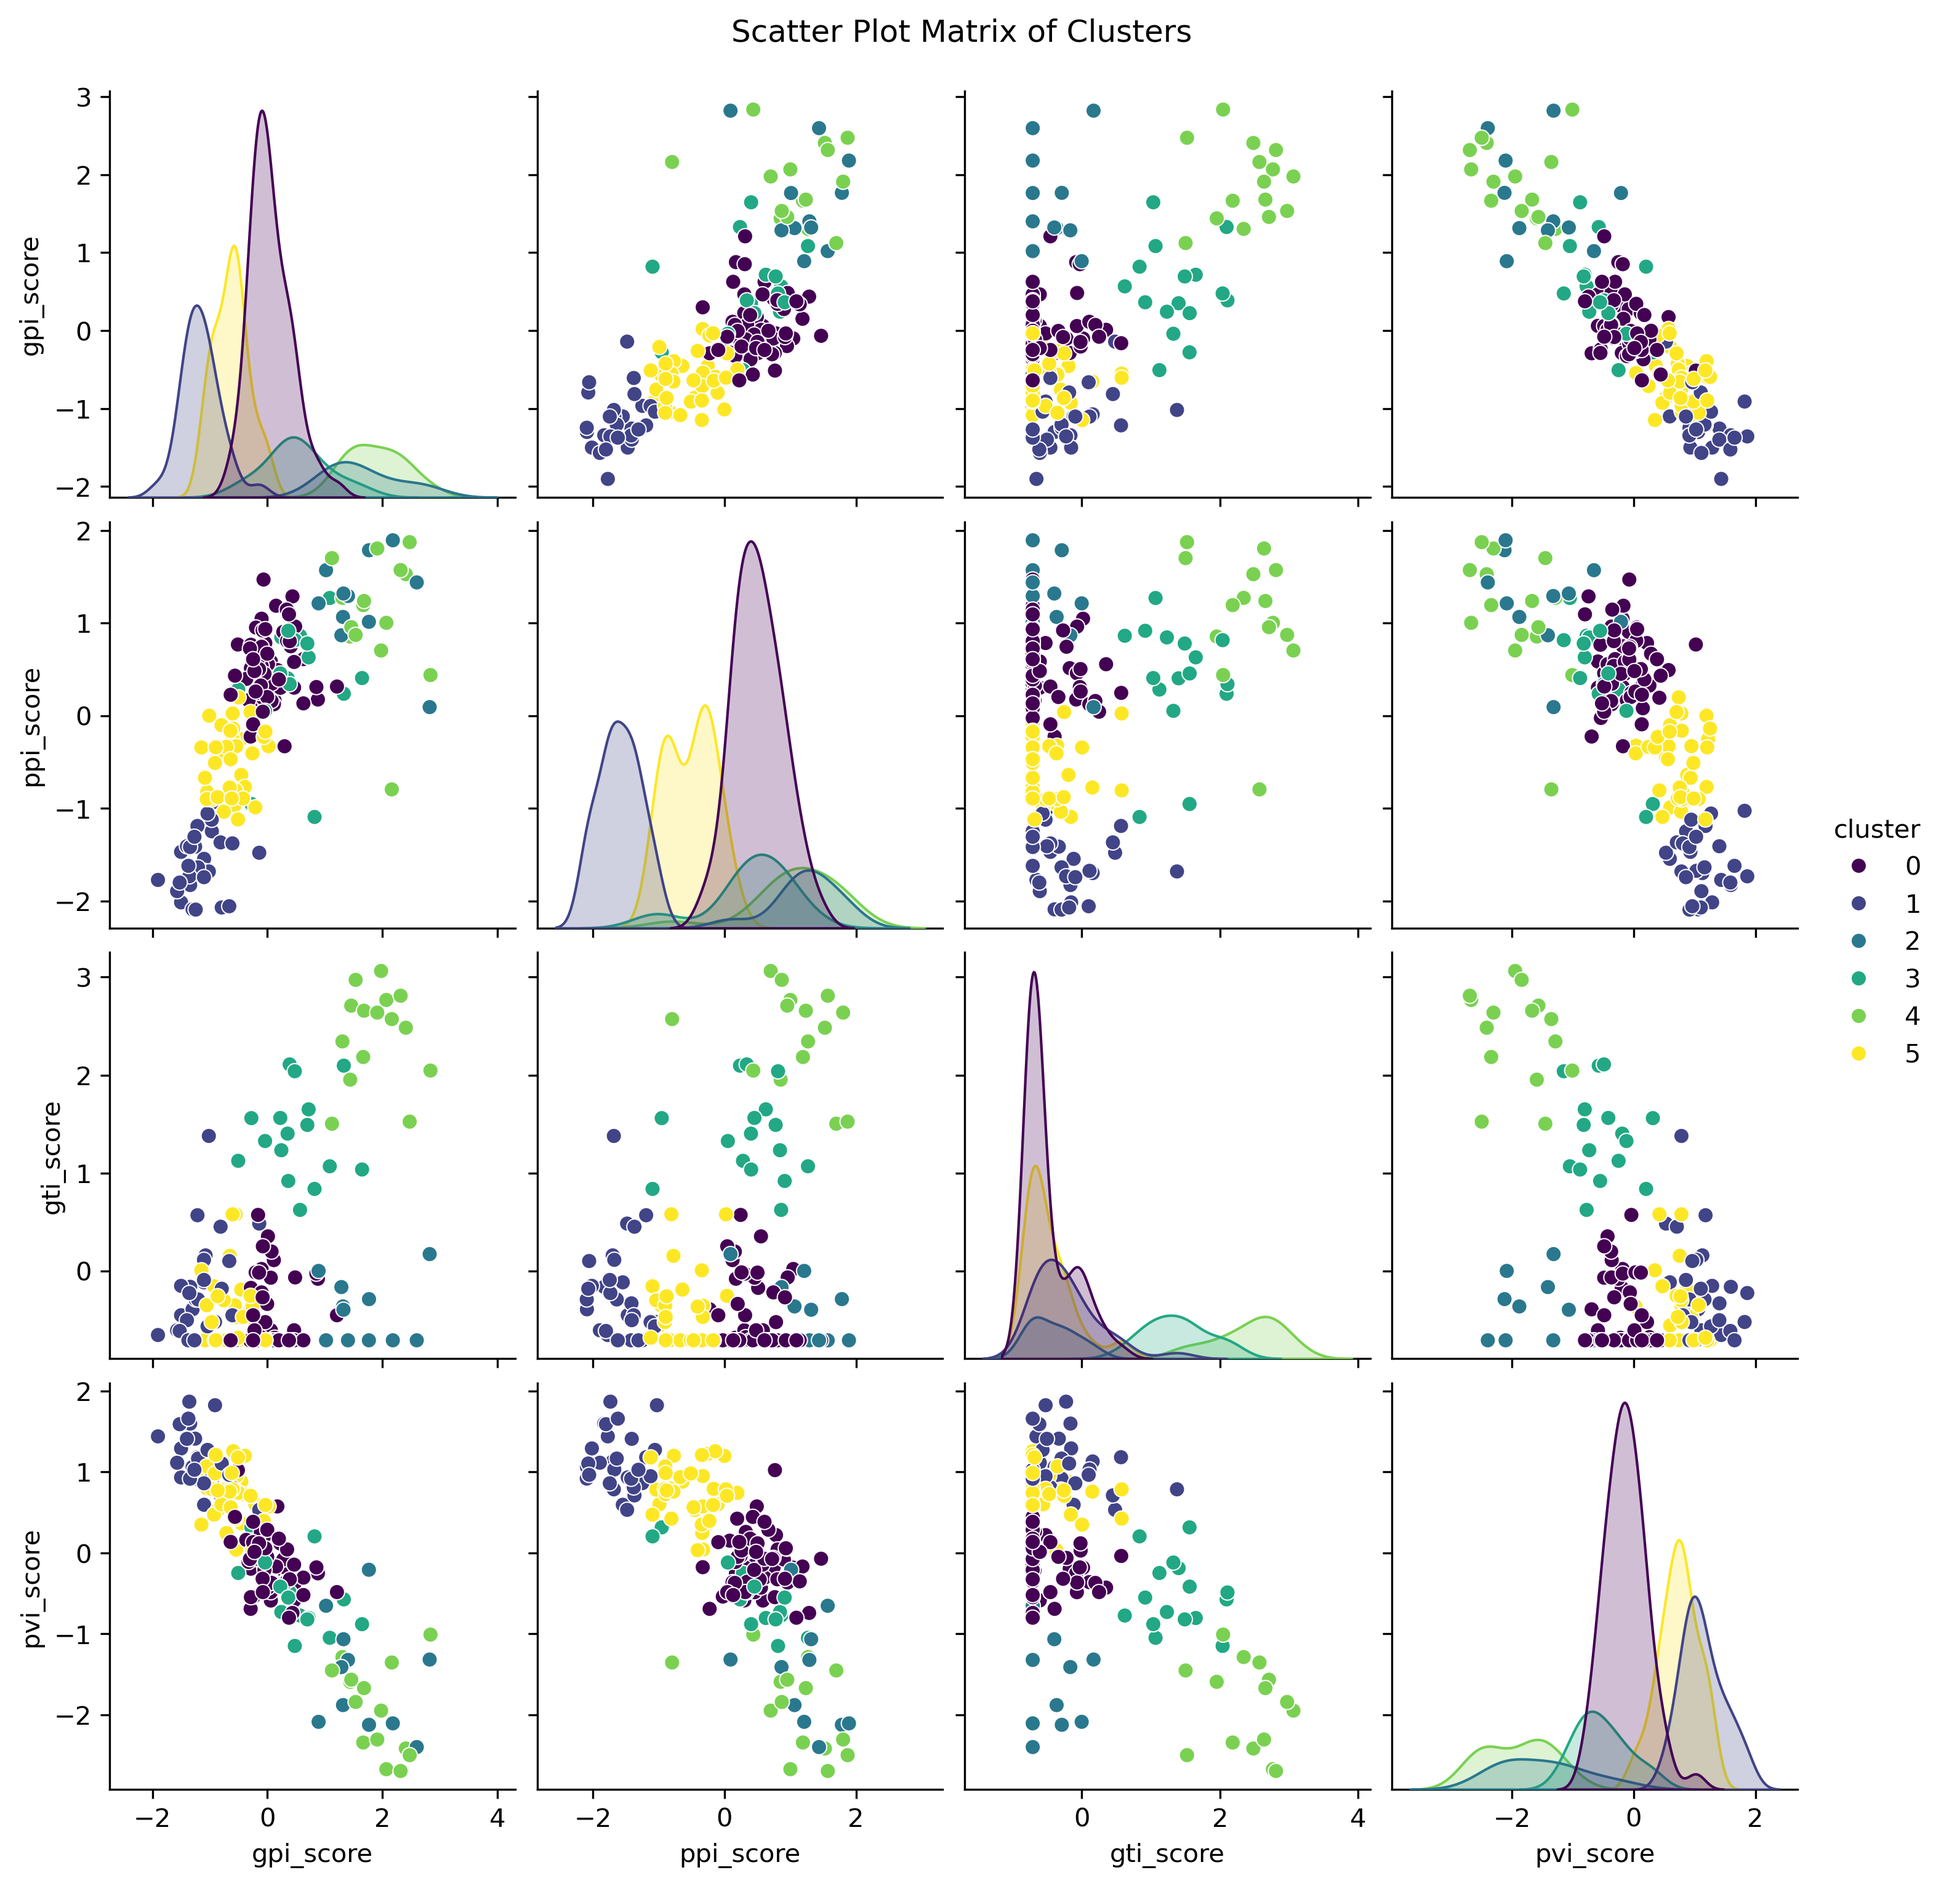
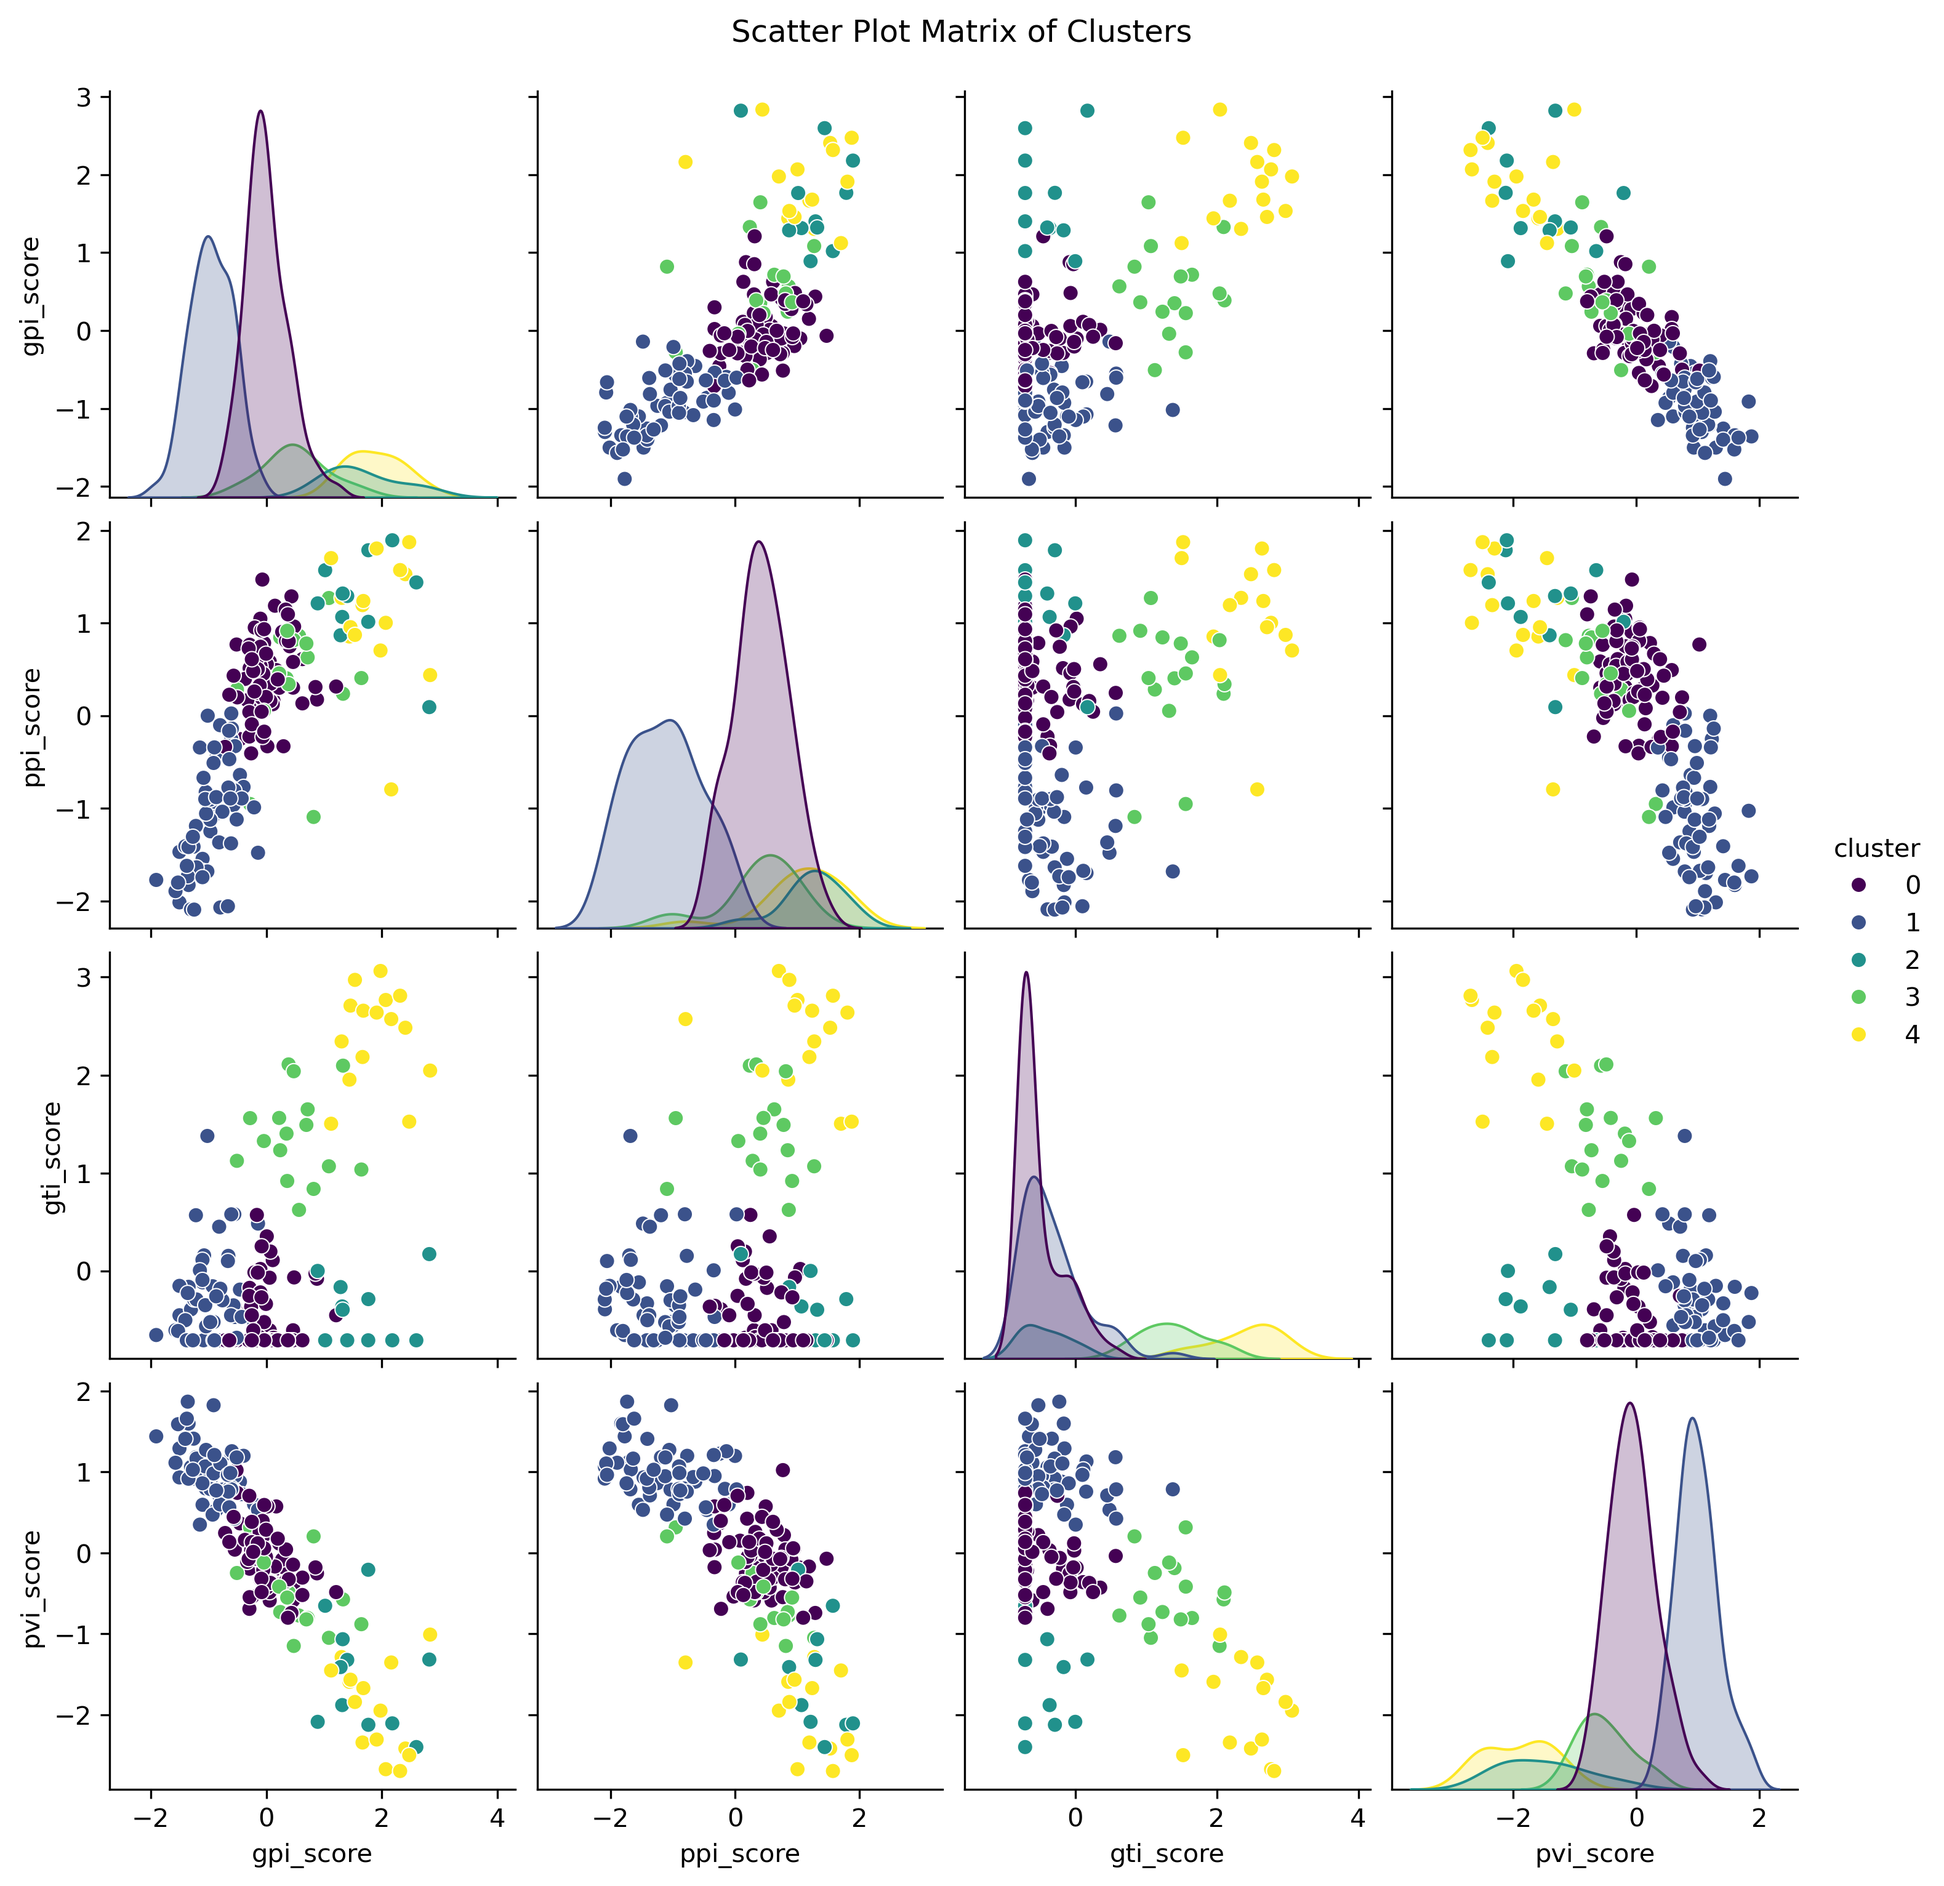
5 clusters

diff --git a/clustering/clustering.py b/clustering/clustering.py
@@ -38,7 +38,7 @@ plt.title("Elbow Method for Optimal k")
 plt.savefig("clustering/output/elbow_plot.png", bbox_inches='tight', dpi=300)
 plt.close()
 
-k = 6  # adjust after looking at the elbow plot
+k = 5  # adjust after looking at the elbow plot
 model = KMeans(n_clusters=k, random_state=42)
 df['cluster'] = model.fit_predict(X)
 
